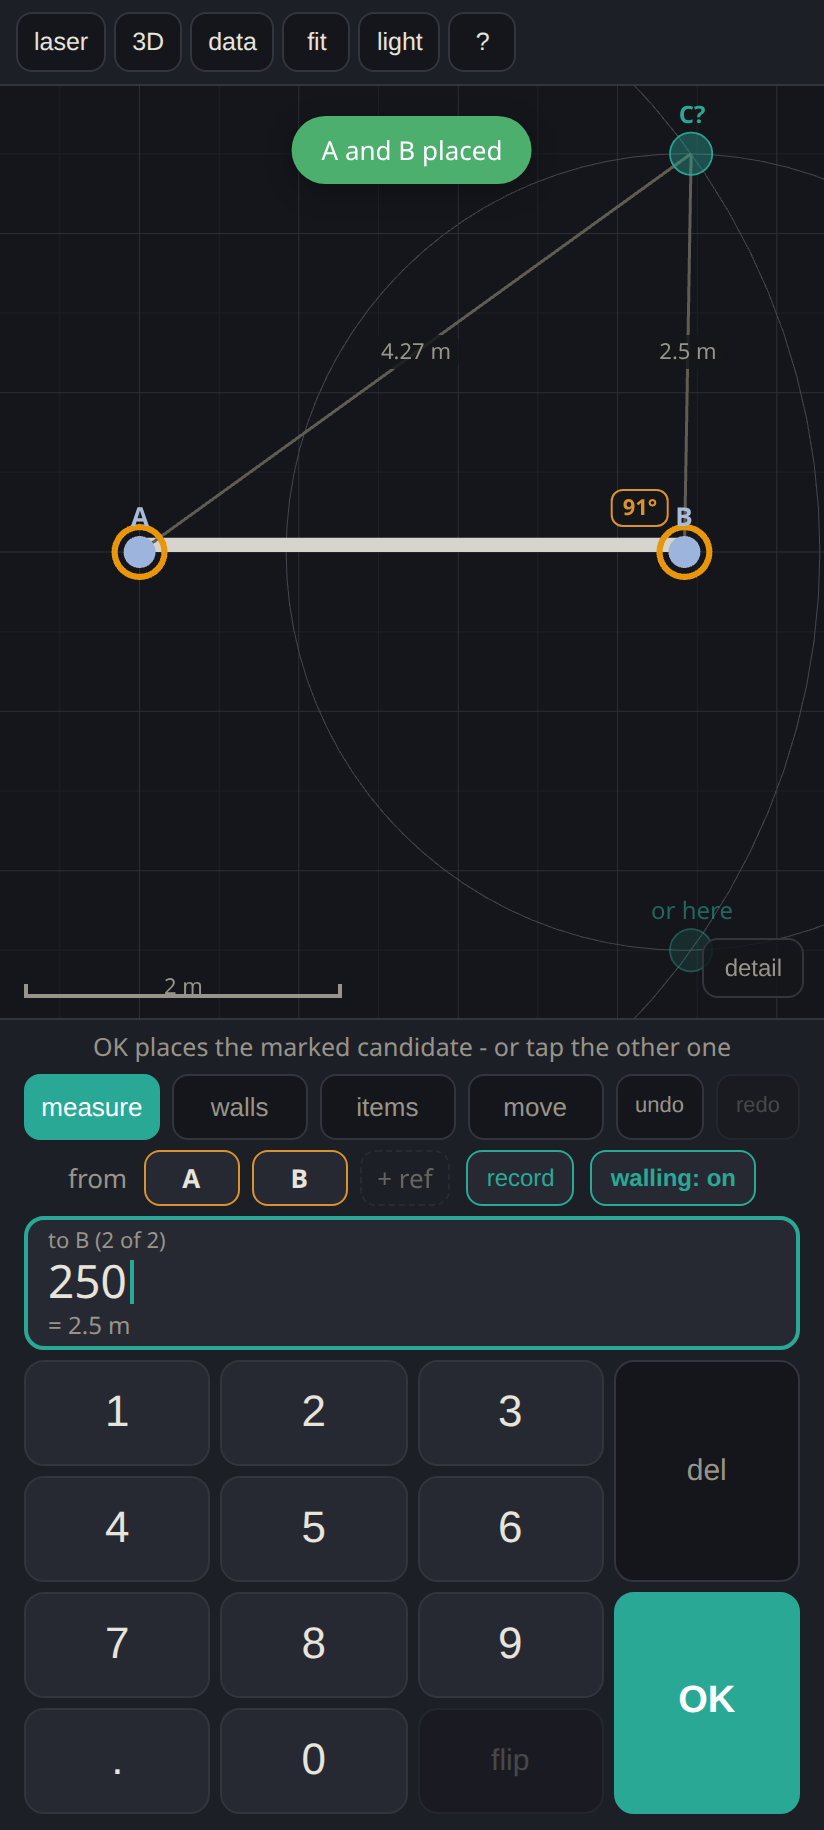
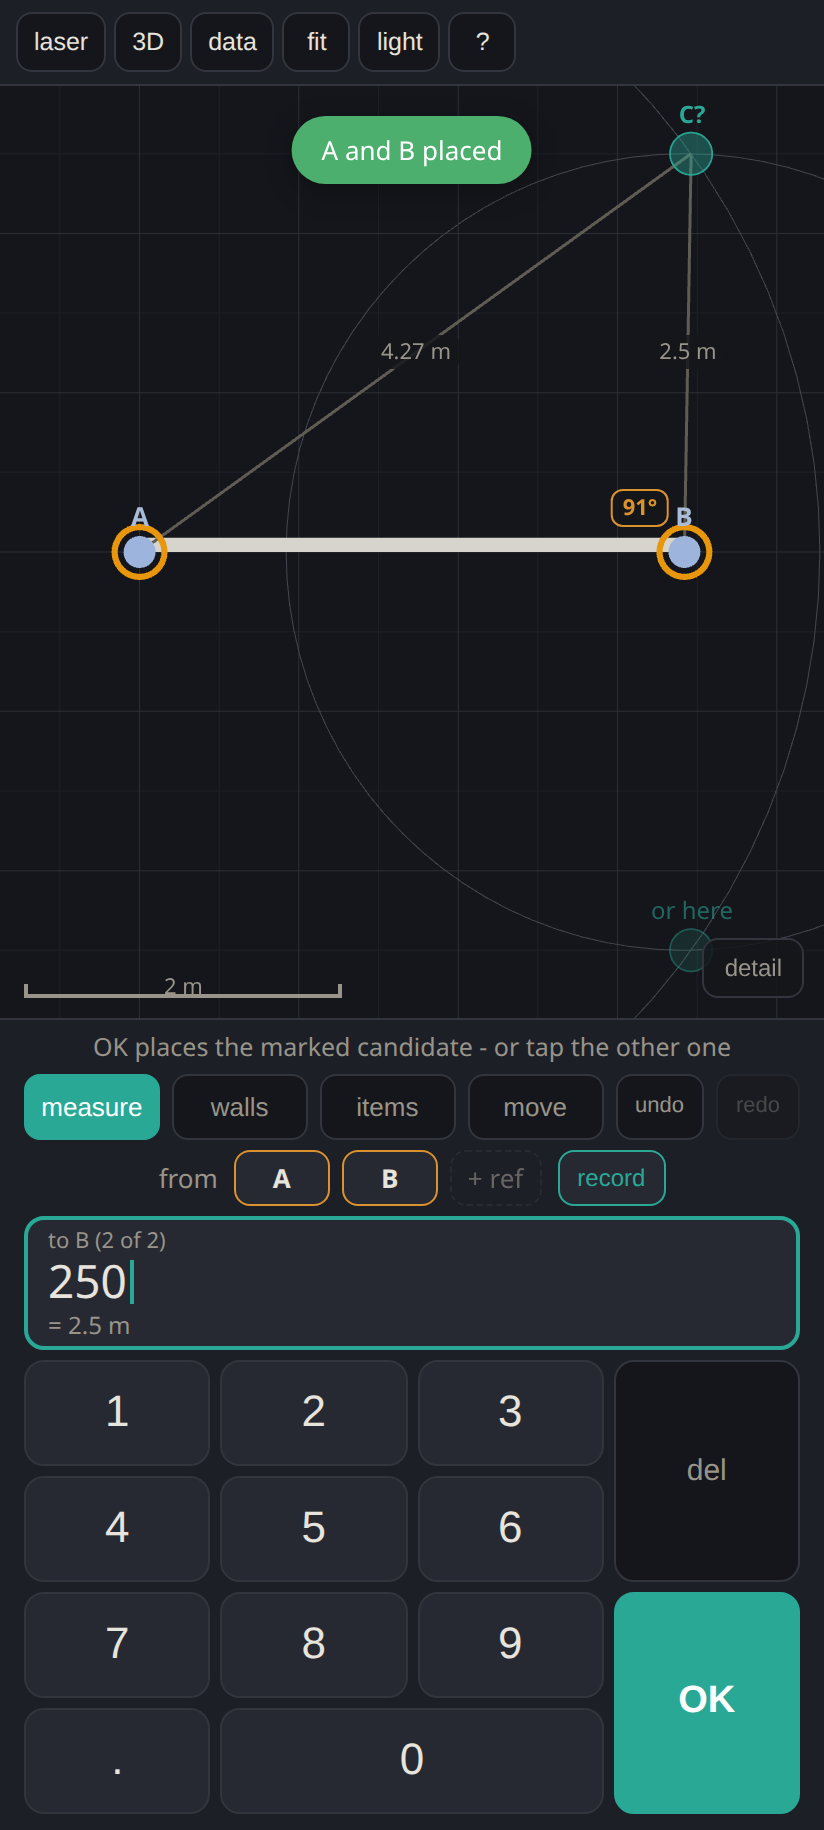
ui: flip beside delete, walling in walls mode, auto in laser panel
Flip is an action on a point, not an input: it moves out of the keypad
into the refbar next to delete, labelled with its target ('flip C') -
shown for the single selected point or, right after a commit, the point
just measured. The keypad key remains only inside placement flows,
relabelled 'swap' (candidate/side/end switching); outside flows the 0
key stretches over the gap. Keyboard f still does both.

The walling toggle joins new wall / step back in the walls bar - it is
a walls behavior, and reference-first surveying rarely touches it. Auto
survey mode moves into the laser panel as a labelled setting; the laser
row keeps just the big shoot button.

Doctor: new rule flags short drawn edges (under 45 cm) whose endpoints
were never measured directly - the ends carry the relative error of
metres-long fixes, so the edge angle swings wildly (1 cm across 9 cm is
6 degrees) and draws slanted even when the real corners are square.
The card selects the pair for an immediate ruler-tie record.

diff --git a/index.html b/index.html
@@ -62,11 +62,10 @@
         <button id="check-btn" title="record the typed distance between the two selected points">record</button>
         <button id="stack-btn" style="display:none" title="pin the selected point(s) onto this floor, directly above">stack here</button>
         <button id="del-point" style="display:none" title="delete the selected point">delete</button>
+        <button id="flip-btn" style="display:none" title="mirror this point to its other candidate position"></button>
         <button id="unwall-btn" style="display:none" title="take this point out of the wall outline (it stays as a reference)">unwall</button>
-        <button id="pause-btn" style="display:none" title="pause wall auto-chaining to place reference-only points"></button>
       </div>
       <div id="laserbar" style="display:none">
-        <button id="auto-btn" title="laser auto mode: readings advance and commit points by themselves"></button>
         <button id="shoot-btn" title="trigger a shake-free measurement from here (arms the laser, then fires)">shoot</button>
       </div>
       <div id="fields">
@@ -76,6 +75,7 @@
       <div id="wallbar">
         <button id="wall-new">new wall</button>
         <button id="wall-back">step back</button>
+        <button id="pause-btn" style="display:none" title="chain new measured points into the wall outline as you go"></button>
       </div>
       <div id="movebar">
         <span id="sel-name" class="dim"></span>
@@ -126,6 +126,11 @@
     <div class="row">
       <button id="laser-connect">connect</button>
       <button id="laser-disconnect" class="danger" hidden>disconnect</button>
+    </div>
+    <div class="row">
+      <span class="log-name">auto survey mode: readings advance and commit points by themselves</span>
+      <span id="auto-pill" class="pill off">off</span>
+      <button id="auto-btn">turn on</button>
     </div>
     <div class="row">
       <span class="log-name">reference edge (read from the meter)</span>
@@ -180,10 +185,10 @@
     <h2>measuring</h2>
     <ol>
       <li>Mark two anchor points A and B (ideally corners) with tape. Measure A to B and type it in.</li>
-      <li>For every new point: tap 2 already-fixed points, type the measured distance to each, press OK. Two positions match - the marked one is placed; tap the other candidate or press flip if it is on the wrong side.</li>
+      <li>For every new point: tap 2 already-fixed points, type the measured distance to each, press OK. Two positions match - the marked one is placed; tap the other candidate, or press the <b>flip</b> button (next to the reference slots) if it landed on the wrong side.</li>
       <li>For a stronger fix, tap up to 4 references (spread apart as seen from where you stand - rays crossing at 60-120 degrees are ideal) and enter the distances one at a time. Extra distances average the laser noise down, expose a bad reading as a residual, and pick the correct side automatically.</li>
       <li>New points are <b>reference-only</b> by default (walling: off). Fix reference points around the space first - especially ones that can see what A and B cannot (through doorways, past corners) - then build each room in <b>walls</b> mode: tap the corners in order, tap the first again to close, and give the ceiling height.</li>
-      <li>Prefer chaining instead? Toggle <b>walling: on</b> and each new point links into the wall outline as you measure, until the room closes (turning it on before any outline exists starts the run at A-B). Fix a wrong link in walls mode with step back; if a reference point slipped into the outline, select it and press <b>unwall</b> - the loop reroutes past it and the point stays usable.</li>
+      <li>Prefer chaining instead? Toggle <b>walling: on</b> (in walls mode) and each new point links into the wall outline as you measure, until the room closes (turning it on before any outline exists starts the run at A-B). Fix a wrong link in walls mode with step back; if a reference point slipped into the outline, select it and press <b>unwall</b> - the loop reroutes past it and the point stays usable.</li>
       <li>Placed a point on the wrong side and only noticed later? Tap it so it is the only selected point and press <b>flip</b> - it mirrors to the other candidate and everything measured from it re-solves. If those dependents landed mirrored as well, press flip a second time and they mirror too.</li>
       <li>The <b>survey check</b> (the amber/red pill in the header when something needs attention, or the button in the data sheet) diagnoses problems in plain words - unsolved points, disagreeing measurements, weak fix angles - and lists the exact steps to fix each, including which existing point to shoot from for the strongest improvement.</li>
       <li>Extra check measurements (e.g. a room diagonal): select the 2 points, type the distance, press record. Every point is adjusted to best fit all measurements; disagreement shows as residuals, and a reading far off the current solution is challenged before it is accepted. Edit or delete any measurement in the data sheet. The <b>detail</b> button overlays the interior angle at every wall corner and, for a selected point, the circles it was fixed from; while typing a new point the proposed wall's corner angle previews live.</li>
@@ -193,11 +198,11 @@
     <h2>units</h2>
     <p>A number with a decimal point is metres, without is centimetres: <b>342</b> = 3.42 m, <b>3.42</b> = 3.42 m, <b>84</b> = 84 cm, <b>15.</b> = 15 m.</p>
     <h2>keys</h2>
-    <p>Drag to pan, pinch or scroll to zoom, double-tap empty plan to zoom in one-handed. Keyboard: digits, Enter = OK, Tab = other field, f = flip, Escape = cancel, ctrl+z undo.</p>
+    <p>Drag to pan, pinch or scroll to zoom, double-tap empty plan to zoom in one-handed. Keyboard: digits, Enter = OK, Tab = other field, f = flip/swap, Escape = cancel, ctrl+z undo.</p>
     <h2>bluetooth laser</h2>
     <p>Tap <b>laser</b> in the header to open the laser panel, then <b>connect</b> (Chrome, and the app must be on its https:// address or localhost). Each reading lands in the active field ready for OK. The panel also holds the remote-shoot offset and a log of recent protocol frames (copyable) so unknown meters can be given a decoder.</p>
     <p><b>Meter modes</b>: the meter's continuous mode streams into the app - the active field holds a rolling average (hand shake cancels out; re-aiming or pausing starts a fresh window), and the status line shows the sample count plus the meter's own min/max. Nothing commits until you press OK. Area and volume results are announced in the status line but never treated as distances.</p>
-    <p><b>Auto mode</b> (the <b>auto</b> toggle in the laser row, off by default): each laser reading advances the survey by itself. The number of selected references is the contract: with 2 selected, every pair of readings places a point; with 3 or 4 selected, every point takes that many readings and commits on the last one - then the next point begins automatically against the same references. The status line always names which reference to shoot next, and the phone buzzes: short tick = reading logged, triple = point placed, long = reading refused. A mis-fired shot is retracted with <b>del</b> (steps back one reading); Escape restarts the current fix. Every guard still applies: impossible pairs are refused with an explanation, flip swaps a wrong side, and undo unwinds anything.</p>
+    <p><b>Auto mode</b> (in the laser panel, off by default): each laser reading advances the survey by itself. The number of selected references is the contract: with 2 selected, every pair of readings places a point; with 3 or 4 selected, every point takes that many readings and commits on the last one - then the next point begins automatically against the same references. The status line always names which reference to shoot next, and the phone buzzes: short tick = reading logged, triple = point placed, long = reading refused. A mis-fired shot is retracted with <b>del</b> (steps back one reading); Escape restarts the current fix. Every guard still applies: impossible pairs are refused with an explanation, flip swaps a wrong side, and undo unwinds anything.</p>
     <p>The <b>shoot</b> button (Bosch meters) triggers a measurement remotely - the laser arms, then fires, with no button press to shake the aim. Remote readings measure from the device's FRONT edge, so a corrective offset (the body length, default 10 cm, adjustable in the laser panel) is added to match your usual back-edge readings. The device screen stays at 0 for remote shots - compare values in the app field instead. If the meter declines, the status says so. The <b>calibrate</b> button in the laser panel derives the offset from the meter itself: prop it still, press its measure button once, and the app fires a remote shot and reads the body length off the difference.</p>
     <p class="fine">Everything is saved on this device automatically. Export JSON from the log sheet for backup or to move devices.</p>
     <button id="coach-show">show guided tips again</button>

diff --git a/js/main.js b/js/main.js
@@ -358,6 +358,41 @@ function surveyIssues() {
     });
   }
 
+  // Tiny drawn edges whose ends were never tied directly: both ends were
+  // fixed by metres-long shots carrying millimetre noise, so their
+  // RELATIVE error is a large fraction of a short edge - the edge's
+  // angle swings wildly (1 cm across 9 cm is 6 degrees). A ruler tie
+  // pins the length; diagonals across the feature pin the angle.
+  const seenShort = new Set();
+  for (const wall of store.state.walls) {
+    const run = wall.closed ? [...wall.pts, wall.pts[0]] : wall.pts;
+    for (let i = 0; i + 1 < run.length; i++) {
+      const a = run[i], b = run[i + 1];
+      const key = a < b ? `${a}:${b}` : `${b}:${a}`;
+      if (seenShort.has(key)) continue;
+      seenShort.add(key);
+      const pa = pos(a), pb = pos(b);
+      if (!pa || !pb) continue;
+      const d = Math.hypot(pb.x - pa.x, pb.y - pa.y);
+      if (d <= 0 || d >= 0.45) continue;
+      const direct = store.state.measurements.some(
+        (m) => (m.p === a && m.q === b) || (m.p === b && m.q === a));
+      if (direct) continue;
+      const na = store.point(a)?.name, nb = store.point(b)?.name;
+      issues.push({
+        sev: 'warn',
+        title: `${na}-${nb}: short edge (${(d * 100).toFixed(0)} cm) with no direct measurement`,
+        body: 'An edge this short inherits the relative error of two long fixes, so its angle is unreliable - it will draw slanted even when the real corners are square. Measure it directly with a ruler or tape; for a protrusion, also record the two diagonals across it.',
+        steps: [
+          `Measure ${na} to ${nb} directly.`,
+          'Tap the button below (it selects the pair), type the value, press record.',
+        ],
+        selectIds: [a, b],
+      });
+      if (issues.length > 12) break;
+    }
+  }
+
   return issues;
 }
 
@@ -802,7 +837,7 @@ function pressFlip() {
         : ''}`, 'good');
     }
   }
-  if (ui.lastId && store.point(ui.lastId)?.fix) store.flipSide(ui.lastId);
+  if (ui.lastId && store.point(ui.lastId)?.fix?.side != null) store.flipSide(ui.lastId);
 }
 
 function pressOk() {
@@ -1562,19 +1597,22 @@ function renderPanel() {
     $('check-btn').style.display = ui.refs.length === 2 && !ui.flow && !offFloorRefs().length ? '' : 'none';
     $('stack-btn').style.display = !ui.flow && offFloorRefs().length ? '' : 'none';
     $('del-point').style.display = ui.mode === 'measure' && !ui.flow && ui.refs.length === 1 ? '' : 'none';
+    const selFlip = ui.refs.length === 1 && store.point(ui.refs[0])?.fix?.side != null ? ui.refs[0] : null;
+    const lastFlip = ui.refs.length !== 1 && ui.lastId && store.point(ui.lastId)?.fix?.side != null ? ui.lastId : null;
+    const flipTarget = ui.mode === 'measure' && !ui.flow ? (selFlip ?? lastFlip) : null;
+    $('flip-btn').style.display = flipTarget ? '' : 'none';
+    if (flipTarget) $('flip-btn').textContent = `flip ${store.point(flipTarget).name}`;
     const selPt = ui.refs.length === 1 ? ui.refs[0] : null;
     const inWall = selPt != null && store.state.walls.some((w) => w.pts.includes(selPt));
     $('unwall-btn').style.display = ui.mode === 'measure' && !ui.flow && inWall ? '' : 'none';
-    const autoWalling = !anchorMode() && !store.hasClosedRoomOn(activeFloor());
-    $('pause-btn').style.display = ui.mode === 'measure' && !ui.flow && autoWalling ? '' : 'none';
-    $('pause-btn').textContent = ui.wallPause ? 'walling: off' : 'walling: on';
-    $('pause-btn').classList.toggle('on', !ui.wallPause);
   }
-  // Laser controls live on their own row so shoot never falls off a
-  // small screen behind the wrapping refbar.
-  $('laserbar').style.display = laser.connected && ui.mode === 'measure' && !ui.flow ? '' : 'none';
-  $('auto-btn').textContent = `auto: ${ui.autoLaser === true ? 'on' : 'off'}`;
-  $('auto-btn').classList.toggle('on', ui.autoLaser === true);
+  const autoWalling = !anchorMode() && !store.hasClosedRoomOn(activeFloor());
+  $('pause-btn').style.display = ui.mode === 'wall' && !ui.flow && autoWalling ? '' : 'none';
+  $('pause-btn').textContent = ui.wallPause ? 'walling: off' : 'walling: on';
+  $('pause-btn').classList.toggle('on', !ui.wallPause);
+  // The shoot row exists only when the meter can actually be triggered;
+  // auto survey mode is configured in the laser panel.
+  $('laserbar').style.display = laser.canTrigger && ui.mode === 'measure' && !ui.flow ? '' : 'none';
   $('shoot-btn').style.display = laser.canTrigger ? '' : 'none';
   // "close room" appears while a wall run with 3+ points is waiting.
   const open = store.openWall();
@@ -1615,15 +1653,17 @@ function renderPanel() {
     if (!store.state.items.length) list.innerHTML = '<div class="dim" style="padding:6px">no items yet</div>';
   }
 
-  const flip = document.querySelector('[data-key="flip"]');
-  if (flip) {
-    flip.disabled = !(
-      ui.flow?.kind === 'item-side' || ui.flow?.kind === 'item-walloffset' ||
-      (twoFieldFlow() && ui.flow && preview()?.cands) ||
-      (ui.mode === 'move' && ui.selItem && !store.item(ui.selItem)?.locked) ||
-      (ui.mode === 'measure' && !ui.flow && ui.refs.length === 1 && store.point(ui.refs[0])?.fix?.side != null) ||
-      (ui.mode === 'measure' && !ui.flow && ui.lastId && store.point(ui.lastId)?.fix)
-    );
+  // The keypad key is purely a candidate/side SWAP inside placement
+  // flows; flipping a measured point is an action on that point and
+  // lives next to delete in the refbar instead.
+  const flipKey = document.querySelector('[data-key="flip"]');
+  const zeroKey = document.querySelector('[data-key="0"]');
+  if (flipKey) {
+    const flowSwap = ui.flow?.kind === 'item-side' || ui.flow?.kind === 'item-walloffset' ||
+      ((ui.flow?.kind === 'item-c1' || ui.flow?.kind === 'item-c2') && preview()?.cands);
+    flipKey.style.display = flowSwap ? '' : 'none';
+    flipKey.disabled = !flowSwap;
+    if (zeroKey) zeroKey.style.gridArea = flowSwap ? '4 / 2' : '4 / 2 / 5 / 4';
   }
 
   // Status line.
@@ -2151,7 +2191,7 @@ function surveyViz() {
 const COACH_TIPS = [
   'The baseline: tape two marks (A and B) at either end of a straight wall, measure between them with the laser, type it in. Every other point gets fixed by distances back to points like these.',
   'Reference points first: new points are reference-only while walling is off. Fix a few spread around the space - especially ones that can see what A and B cannot (through doorways, past corners). Rays crossing near 90 degrees make the strongest fixes.',
-  'Build the outline: in walls mode tap the corner points in order, and tap the first corner again to close the room (the ceiling height is asked once closed). Or turn walling: on and new points chain into the outline as you measure them.',
+  'Build the outline: in walls mode tap the corner points in order, and tap the first corner again to close the room (the ceiling height is asked once closed). Or toggle walling: on (also in walls mode) and new points chain into the outline as you measure them.',
   'Tighten it: select two points, type a measured distance, press record. Disagreement shows up as residuals, and the detail button reveals wall angles and weak fixes. That is the whole loop - references, corners, checks.',
 ];
 
@@ -2201,7 +2241,7 @@ function buildKeypad() {
     ['1', '1', '1/1'], ['2', '2', '1/2'], ['3', '3', '1/3'], ['del', 'del', '1/4/3/5'],
     ['4', '4', '2/1'], ['5', '5', '2/2'], ['6', '6', '2/3'],
     ['7', '7', '3/1'], ['8', '8', '3/2'], ['9', '9', '3/3'], ['ok', 'OK', '3/4/5/5'],
-    ['.', '.', '4/1'], ['0', '0', '4/2'], ['flip', 'flip', '4/3'],
+    ['.', '.', '4/1'], ['0', '0', '4/2'], ['flip', 'swap', '4/3'],
   ];
   const pad = $('keypad');
   for (const [key, label, area] of keys) {
@@ -2370,6 +2410,9 @@ function renderLaser() {
   $('laser-disconnect').hidden = !on;
   const off = $('laser-off');
   if (document.activeElement !== off) off.value = (laser.remoteOffset * 100).toFixed(1);
+  $('auto-pill').className = 'pill ' + (ui.autoLaser === true ? 'on' : 'off');
+  $('auto-pill').textContent = ui.autoLaser === true ? 'on' : 'off';
+  $('auto-btn').textContent = ui.autoLaser === true ? 'turn off' : 'turn on';
   const ref = laser.deviceRef;
   const refEl = $('laser-ref');
   refEl.textContent = ref === 'back' ? 'back edge' : ref === 'front' ? 'front edge'
@@ -2545,8 +2588,11 @@ $('pause-btn').addEventListener('click', () => {
     : 'Walling on: new points chain into the wall outline until the room closes');
 });
 $('shoot-btn').addEventListener('click', () => laser.remoteTrigger());
+$('flip-btn').addEventListener('click', () => pressFlip());
 $('auto-btn').addEventListener('click', () => {
   ui.autoLaser = ui.autoLaser !== true;
+  if (!$('laser-sheet').hidden) renderLaser();
+  toast(ui.autoLaser ? 'Auto survey mode on' : 'Auto survey mode off', 'good');
   say(ui.autoLaser
     ? 'Auto on: shoot ref 1, shoot ref 2, point placed - repeat around the room'
     : 'Auto off: laser readings fill the field, you press OK');
